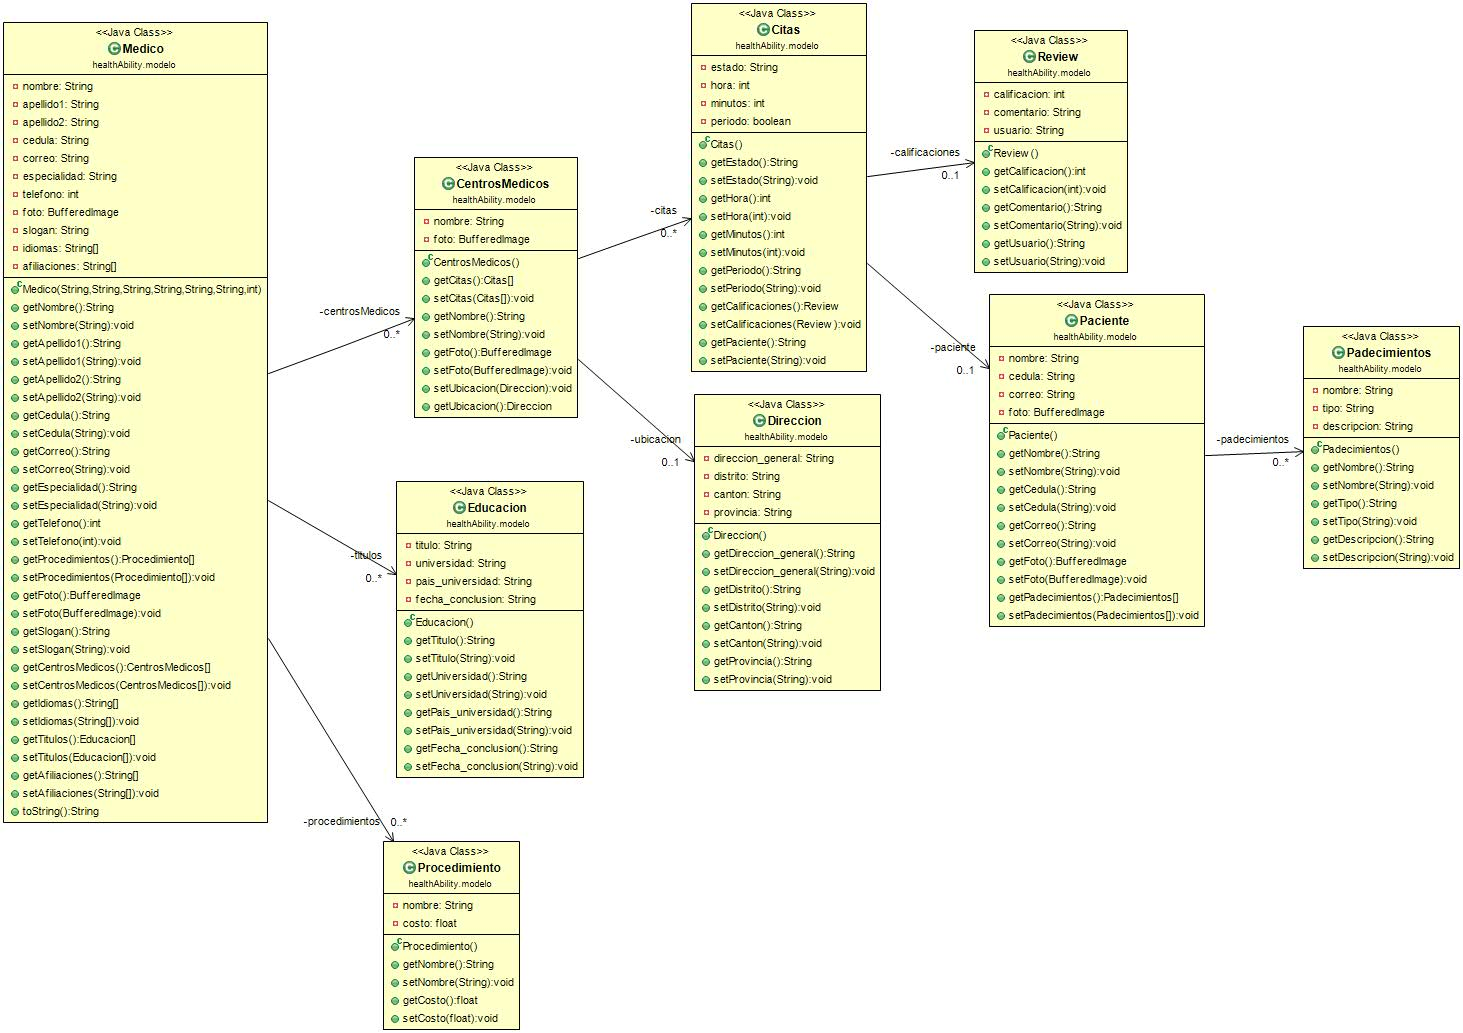
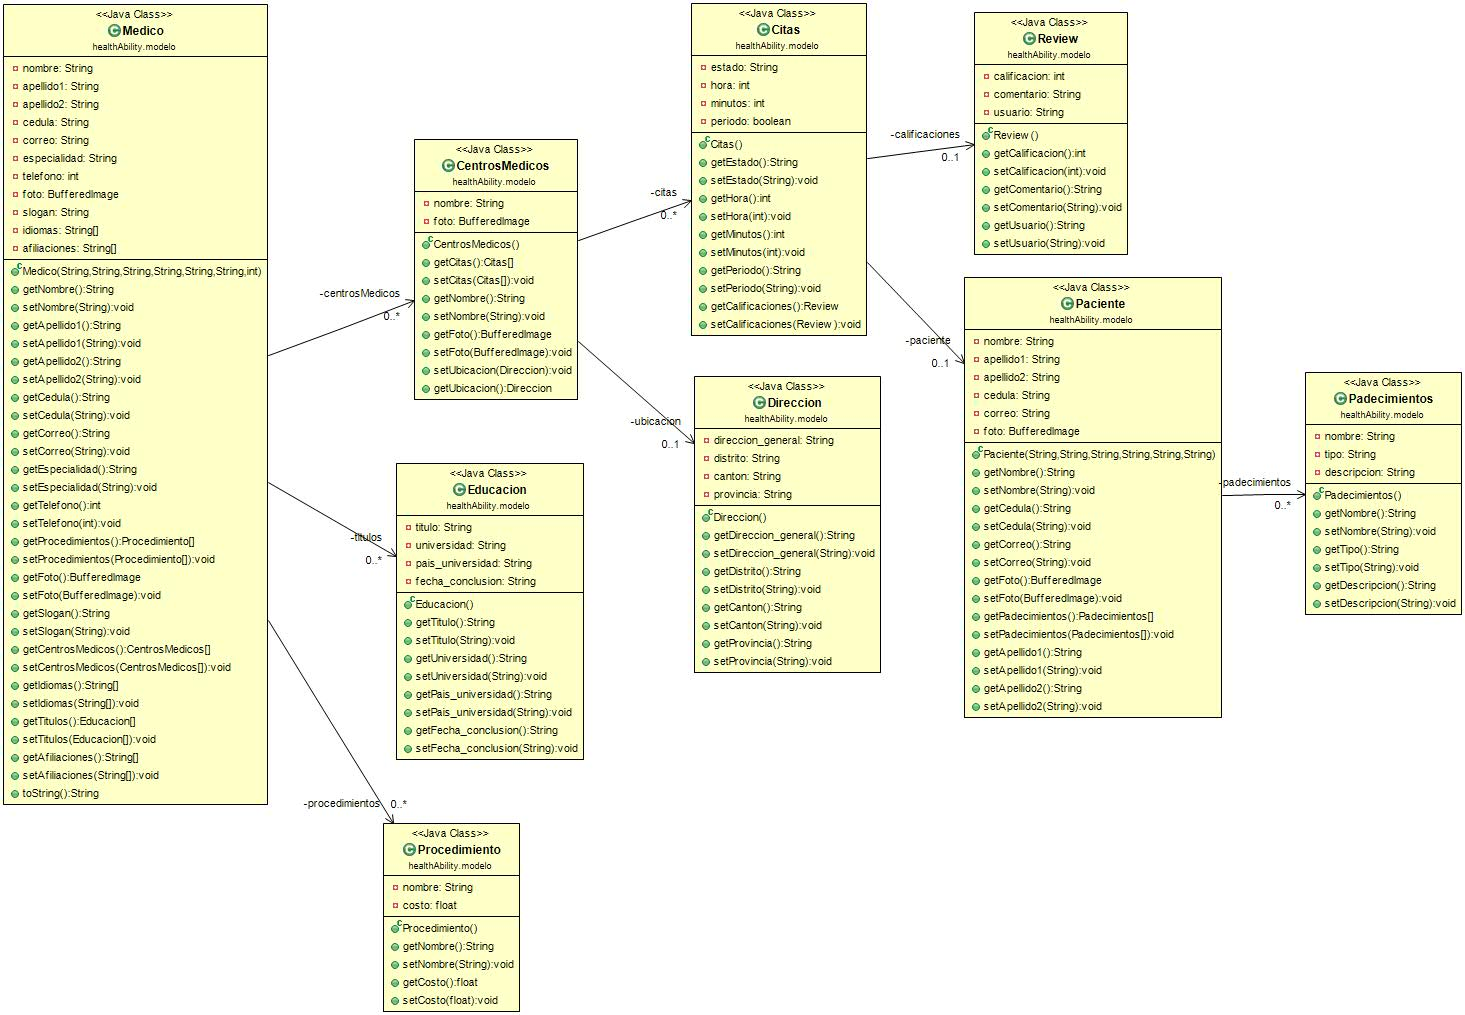
-Arreglo clase paciente.

diff --git a/src/healthAbility/modelo/Paciente.java b/src/healthAbility/modelo/Paciente.java
@@ -8,6 +8,7 @@
 package healthAbility.modelo;
 
 import java.awt.image.BufferedImage;
+import java.util.Date;
 
 /**
  * @author Diego Mar 20, 2014
@@ -17,11 +18,26 @@ public class Paciente {
 	
 	/****VARIABLES****/
 	private String nombre;
+	private String apellido1;
+	private String apellido2;
 	private String cedula;
 	private String correo;
 	private BufferedImage foto;
 	private Padecimientos[] padecimientos;
+	private Date nacimiento;
 	
+	
+	/*****CONSTRUCTOR*****/
+
+	public Paciente(String pnombre, String papellido1, String papellido2, 
+			String pcedula, String pcorreo, String ppadecimientos ){
+		
+		this.nombre = pnombre;
+		this.apellido1 = papellido1;
+		this.apellido2 = papellido2;
+		this.cedula = pcedula;
+		this.correo = pcorreo;
+	}
 	
 	/*****GETTERS AND SETTERS*****/
 	public String getNombre() {
@@ -54,6 +70,26 @@ public class Paciente {
 	public void setPadecimientos(Padecimientos[] padecimientos) {
 		this.padecimientos = padecimientos;
 	}
-	
+	public String getApellido1() {
+		return apellido1;
+	}
+	public void setApellido1(String apellido1) {
+		this.apellido1 = apellido1;
+	}
+	public String getApellido2() {
+		return apellido2;
+	}
+	public void setApellido2(String apellido2) {
+		this.apellido2 = apellido2;
+	}
+
+	public Date getNacimiento() {
+		return nacimiento;
+	}
+
+	public void setNacimiento(Date nacimiento) {
+		this.nacimiento = nacimiento;
+	}
+
 
 }
